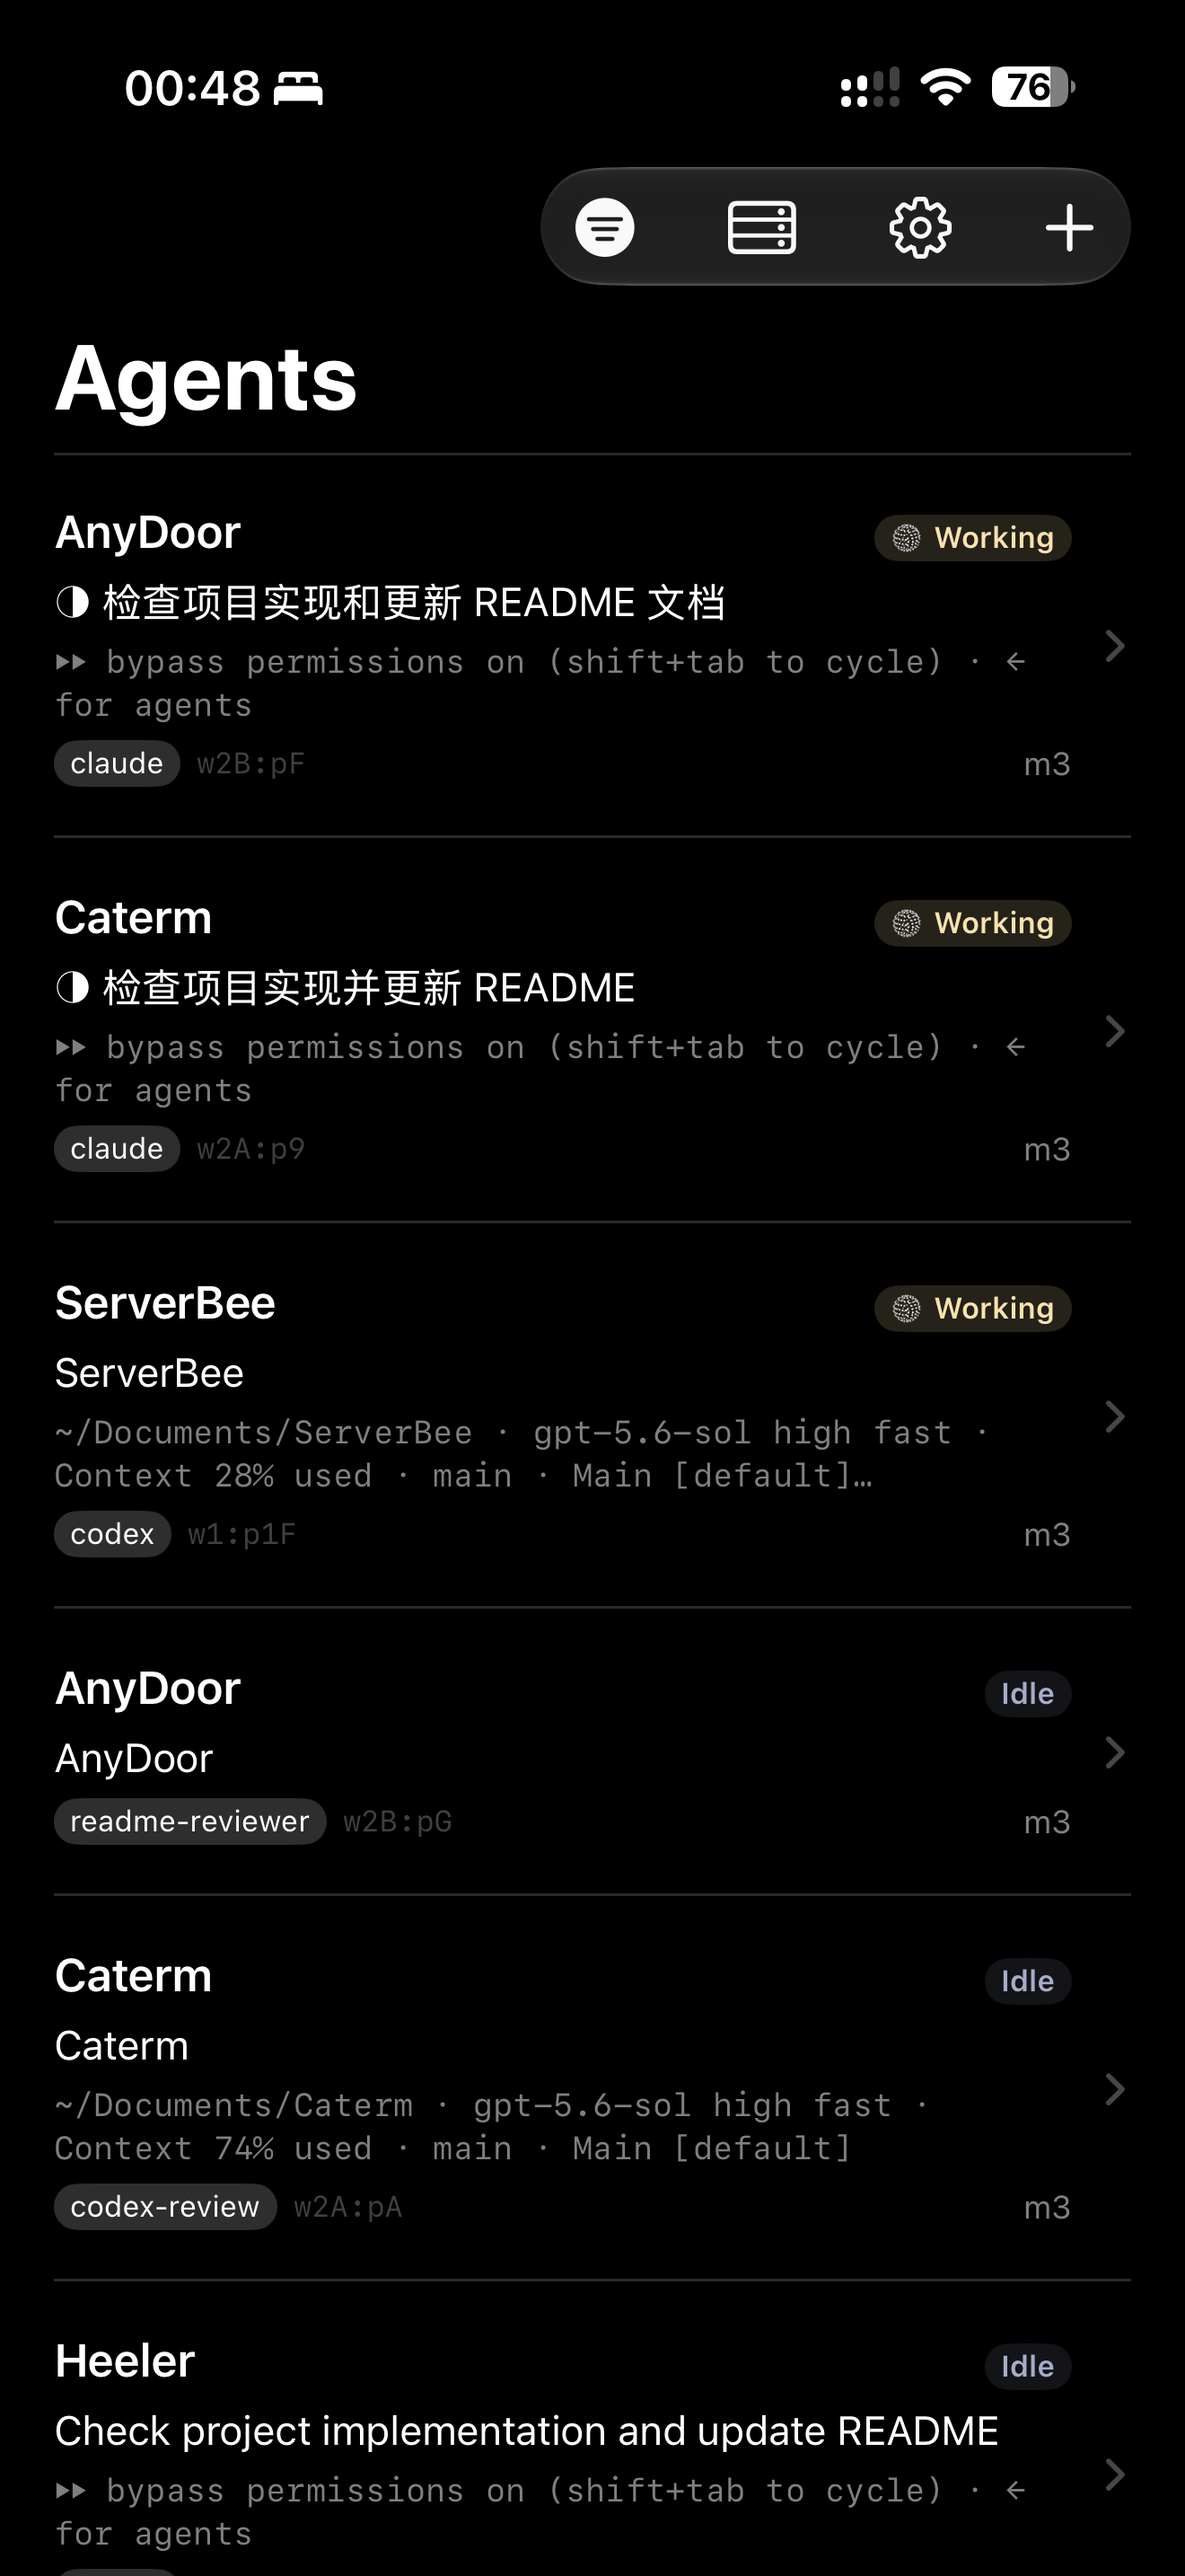
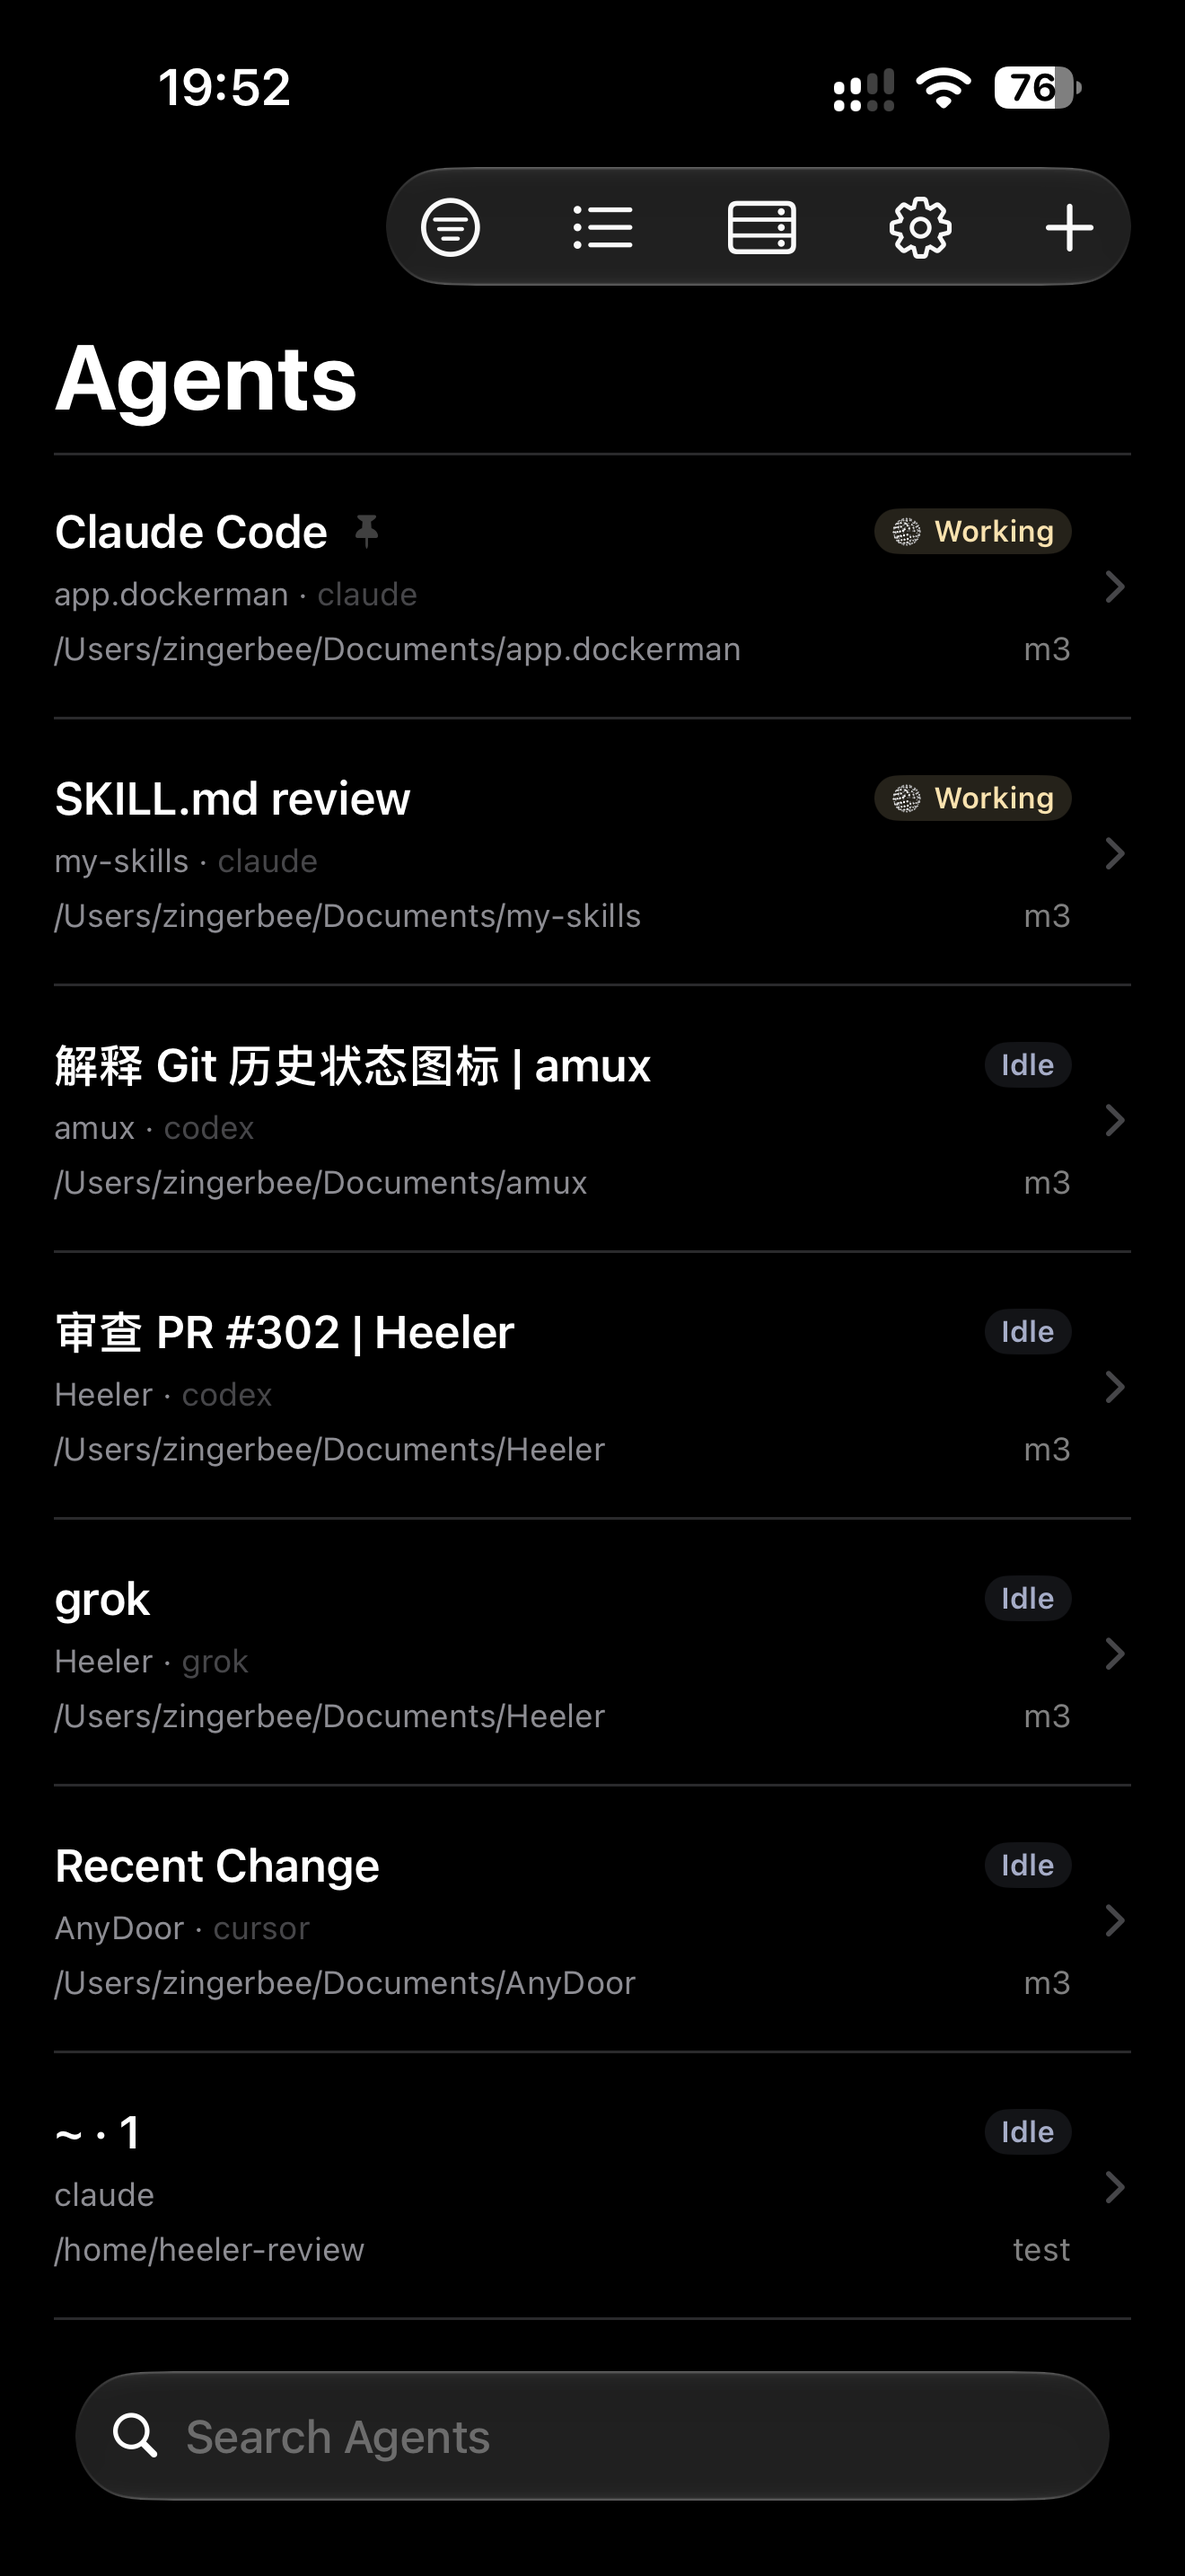
docs: refresh screenshots and export app store assets for 0.1.7

diff --git a/output/app-store/0.1.7/compose_mockups.py b/output/app-store/0.1.7/compose_mockups.py
@@ -1,0 +1,183 @@
+#!/usr/bin/env python3
+"""Compose deterministic App Store screenshots from exact Heeler captures."""
+
+from __future__ import annotations
+
+from dataclasses import dataclass
+from pathlib import Path
+
+from PIL import Image, ImageDraw, ImageFilter, ImageFont, ImageOps
+
+
+ROOT = Path(__file__).resolve().parents[3]
+OUTPUT_DIR = Path(__file__).resolve().parent / "iphone-6.9"
+BACKGROUND_PATH = Path(__file__).resolve().parent / "assets" / "background.png"
+
+CANVAS_SIZE = (1320, 2868)
+SCREENSHOT_WIDTH = 1010
+SCREENSHOT_TOP = 646
+SCREENSHOT_RADIUS = 78
+
+FONT_PATH = Path("/System/Library/Fonts/SFNS.ttf")
+MONO_FONT_PATH = Path("/System/Library/Fonts/SFNSMono.ttf")
+
+
+@dataclass(frozen=True)
+class Mockup:
+    output_name: str
+    source_name: str
+    headline: str
+    subhead: str
+    accent: tuple[int, int, int]
+
+
+MOCKUPS = (
+    Mockup(
+        output_name="01-every-agent-one-console.png",
+        source_name="console-iphone.png",
+        headline="Every Agent.\nOne Console.",
+        subhead="See who needs you first, across every Host.",
+        accent=(152, 124, 255),
+    ),
+    Mockup(
+        output_name="02-type-directly-stay-in-flow.png",
+        source_name="live-terminal-iphone.png",
+        headline="Type Directly.\nStay in Flow.",
+        subhead="Route the iOS keyboard straight to the live Attach terminal.",
+        accent=(236, 113, 177),
+    ),
+    Mockup(
+        output_name="03-control-without-leaving-the-flow.png",
+        source_name="agent-iphone.png",
+        headline="Control Without\nLeaving the Flow",
+        subhead="A live terminal and agent controls, built for iOS.",
+        accent=(88, 214, 198),
+    ),
+    Mockup(
+        output_name="04-your-shell-within-reach.png",
+        source_name="terminal-iphone.png",
+        headline="Your Shell.\nWithin Reach.",
+        subhead="Open a plain terminal in the Agent's working directory.",
+        accent=(102, 166, 255),
+    ),
+    Mockup(
+        output_name="05-skills-without-breaking-flow.png",
+        source_name="skills-iphone.png",
+        headline="Skills Without\nBreaking Flow",
+        subhead="Find and insert Agent Skills without leaving the Composer.",
+        accent=(184, 137, 255),
+    ),
+    Mockup(
+        output_name="06-your-agents-at-a-glance.png",
+        source_name="live-activity-iphone.png",
+        headline="Your Agents.\nAt a Glance.",
+        subhead="See live Agent activity from the Lock Screen.",
+        accent=(241, 204, 118),
+    ),
+)
+
+
+def load_font(path: Path, size: int, variation: str | None = None) -> ImageFont.FreeTypeFont:
+    font = ImageFont.truetype(str(path), size=size)
+    if variation is not None:
+        try:
+            font.set_variation_by_name(variation)
+        except (OSError, ValueError):
+            pass
+    return font
+
+
+def rounded_mask(size: tuple[int, int], radius: int) -> Image.Image:
+    mask = Image.new("L", size, 0)
+    ImageDraw.Draw(mask).rounded_rectangle(
+        (0, 0, size[0] - 1, size[1] - 1),
+        radius=radius,
+        fill=255,
+    )
+    return mask
+
+
+def compose(mockup: Mockup) -> Path:
+    background = Image.open(BACKGROUND_PATH).convert("RGB")
+    canvas = ImageOps.fit(background, CANVAS_SIZE, method=Image.Resampling.LANCZOS)
+    overlay = Image.new("RGBA", CANVAS_SIZE, (0, 0, 0, 0))
+    overlay_draw = ImageDraw.Draw(overlay)
+
+    # Keep the generated texture visible at the edges while giving copy a quiet field.
+    overlay_draw.rectangle((0, 0, CANVAS_SIZE[0], 630), fill=(4, 5, 12, 82))
+    overlay_draw.line((96, 98, 170, 98), fill=(*mockup.accent, 255), width=8)
+
+    kicker_font = load_font(MONO_FONT_PATH, 31, "Medium")
+    headline_font = load_font(FONT_PATH, 91, "Bold")
+    subhead_font = load_font(FONT_PATH, 37, "Regular")
+
+    overlay_draw.text(
+        (96, 126),
+        "HEELER FOR HERDR",
+        font=kicker_font,
+        fill=(*mockup.accent, 255),
+        spacing=4,
+    )
+    overlay_draw.multiline_text(
+        (92, 188),
+        mockup.headline,
+        font=headline_font,
+        fill=(250, 250, 253, 255),
+        spacing=-2,
+    )
+    overlay_draw.multiline_text(
+        (96, 455),
+        mockup.subhead,
+        font=subhead_font,
+        fill=(211, 214, 225, 255),
+        spacing=7,
+    )
+    canvas = Image.alpha_composite(canvas.convert("RGBA"), overlay)
+
+    source_path = ROOT / "docs" / "images" / mockup.source_name
+    screenshot = Image.open(source_path).convert("RGB")
+    screenshot_height = round(screenshot.height * SCREENSHOT_WIDTH / screenshot.width)
+    screenshot = screenshot.resize(
+        (SCREENSHOT_WIDTH, screenshot_height),
+        Image.Resampling.LANCZOS,
+    )
+
+    shot_x = (CANVAS_SIZE[0] - SCREENSHOT_WIDTH) // 2
+    shot_y = SCREENSHOT_TOP
+    mask = rounded_mask(screenshot.size, SCREENSHOT_RADIUS)
+
+    shadow = Image.new("RGBA", CANVAS_SIZE, (0, 0, 0, 0))
+    shadow_mask = Image.new("L", CANVAS_SIZE, 0)
+    shadow_mask.paste(mask, (shot_x, shot_y + 14))
+    shadow_mask = shadow_mask.filter(ImageFilter.GaussianBlur(34))
+    shadow.putalpha(shadow_mask.point(lambda value: round(value * 0.72)))
+    canvas = Image.alpha_composite(canvas, shadow)
+
+    border_draw = ImageDraw.Draw(canvas)
+    border_draw.rounded_rectangle(
+        (
+            shot_x - 4,
+            shot_y - 4,
+            shot_x + SCREENSHOT_WIDTH + 3,
+            shot_y + screenshot_height + 3,
+        ),
+        radius=SCREENSHOT_RADIUS + 4,
+        fill=(16, 17, 22, 255),
+        outline=(*mockup.accent, 165),
+        width=3,
+    )
+    canvas.paste(screenshot, (shot_x, shot_y), mask)
+
+    OUTPUT_DIR.mkdir(parents=True, exist_ok=True)
+    output_path = OUTPUT_DIR / mockup.output_name
+    canvas.convert("RGB").save(output_path, format="PNG", optimize=True)
+    return output_path
+
+
+def main() -> None:
+    for mockup in MOCKUPS:
+        print(compose(mockup))
+
+
+if __name__ == "__main__":
+    main()

diff --git a/output/app-store/0.1.7/README.md b/output/app-store/0.1.7/README.md
@@ -1,0 +1,42 @@
+# Heeler 0.1.7 App Store screenshot exports
+
+These exports preserve the exact application UI from the committed iPhone
+captures and add deterministic marketing copy over a generated background.
+
+## Exports
+
+- iphone-6.9/01-every-agent-one-console.png
+  - Source: docs/images/console-iphone.png
+  - Copy: “Every Agent. One Console.”
+- iphone-6.9/02-type-directly-stay-in-flow.png
+  - Source: docs/images/live-terminal-iphone.png
+  - Copy: “Type Directly. Stay in Flow.”
+- iphone-6.9/03-control-without-leaving-the-flow.png
+  - Source: docs/images/agent-iphone.png
+  - Copy: “Control Without Leaving the Flow”
+- iphone-6.9/04-your-shell-within-reach.png
+  - Source: docs/images/terminal-iphone.png
+  - Copy: “Your Shell. Within Reach.”
+- iphone-6.9/05-skills-without-breaking-flow.png
+  - Source: docs/images/skills-iphone.png
+  - Copy: “Skills Without Breaking Flow”
+- iphone-6.9/06-your-agents-at-a-glance.png
+  - Source: docs/images/live-activity-iphone.png
+  - Copy: “Your Agents. At a Glance.”
+
+All files are opaque 1320×2868 PNGs for the iPhone 6.9-inch App Store slot.
+
+## Provenance
+
+The background was generated with OpenAI image generation as an abstract,
+text-free dark terminal texture. All UI, headlines, subheads, borders, masks,
+and sizing are composed locally by compose_mockups.py; the source screenshots
+are never redrawn by a generative model.
+
+## Regenerate
+
+Run from the repository root with Pillow installed:
+
+```sh
+python3 output/app-store/0.1.7/compose_mockups.py
+```
